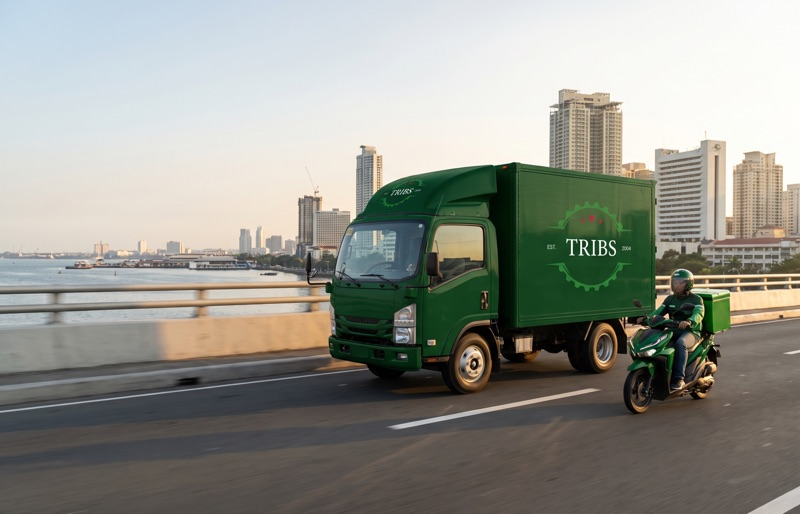
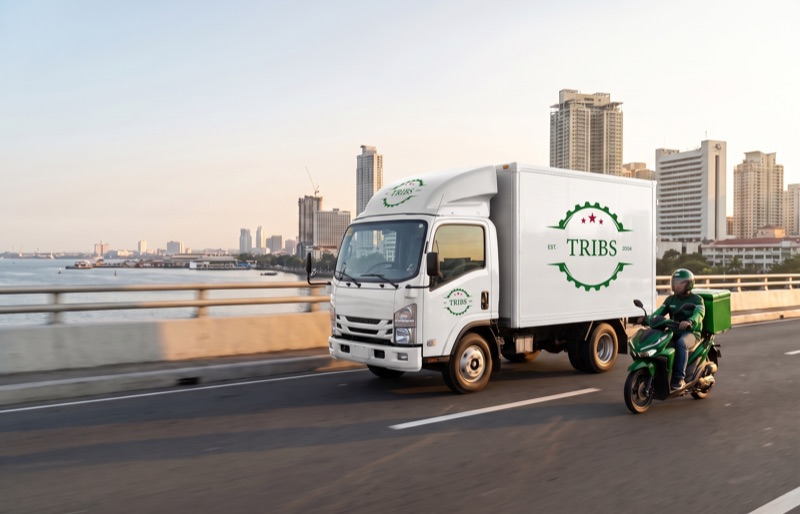
Fleet photos: white trucks with TRIBS emblem

diff --git a/higgsfield-prompts.md b/higgsfield-prompts.md
@@ -28,3 +28,24 @@ Photorealistic commercial photograph. A delivery rider in a dark green jacket an
 ```
 Photorealistic commercial photograph. A dark green (#07582a) TRIBS box truck with the attached round gear emblem on its side drives along an elevated highway with the Manila skyline behind it, a delivery rider on a green motorbike with a green delivery box alongside. Late afternoon light, slight motion blur on the road, wide cinematic composition with open sky on the left for headline text. No text overlays, no watermark.
 ```
+
+## Update: white trucks (edit the existing photos)
+
+Model: Nano Banana Pro (or Nano Banana 2), image-to-image. Attach the current photo as
+the first reference and `assets/logos/tribs-emblem-on-white.png` as the second. Masters
+to attach are in `assets/originals/higgsfield/` (`hero.jpg`, `truck.jpg`).
+
+### Hero (3:2) — reference: hero.jpg + emblem
+
+```
+Edit the first reference photo. Keep the exact same scene, camera angle, composition, lighting, road, bridge, bay, city skyline and the motorcycle rider: only change the box truck's paint. Repaint the entire truck WHITE: white cab, white box body, white bumper. Keep the truck's shape, model and position identical. On the side of the white box body place the round TRIBS emblem from the second reference exactly as designed (dark green gear ring, three red stars, serif TRIBS wordmark, EST. 2004) in dark green on the white panel, large and clean, plus a small dark green TRIBS emblem on the cab door. Realistic vinyl livery, correct perspective, natural reflections of the golden-hour light on the white paint. The motorcycle, rider uniform and delivery box stay dark green as in the reference. Photorealistic editorial photograph, Manila, Philippines, no extra text.
+```
+
+### Truck for Hire card (21:9) — reference: truck.jpg + emblem
+
+```
+Edit the first reference photo. Keep the exact same scene, camera angle, composition, lighting, warehouse yard, buildings, sky and the three staff members in dark green polo shirts: only change the vehicles' paint. Repaint all three vehicles WHITE: the closed van, and both box trucks, including cabs, box bodies and bumpers. Keep each vehicle's shape, model and position identical. On the side of each white box body place the round TRIBS emblem from the second reference exactly as designed (dark green gear ring, three red stars, serif TRIBS wordmark, EST. 2004) in dark green on the white panel, large and clean; the van gets a smaller dark green TRIBS emblem on its side. Realistic vinyl livery, correct perspective, natural reflections of the late-afternoon light on the white paint. Photorealistic editorial photograph, Metro Manila, Philippines, no extra text.
+```
+
+After generating, save the results over `assets/originals/higgsfield/hero.jpg` and
+`truck.jpg`, then regenerate the web sizes (1600/800 for the hero, 1200/600 for the card).
